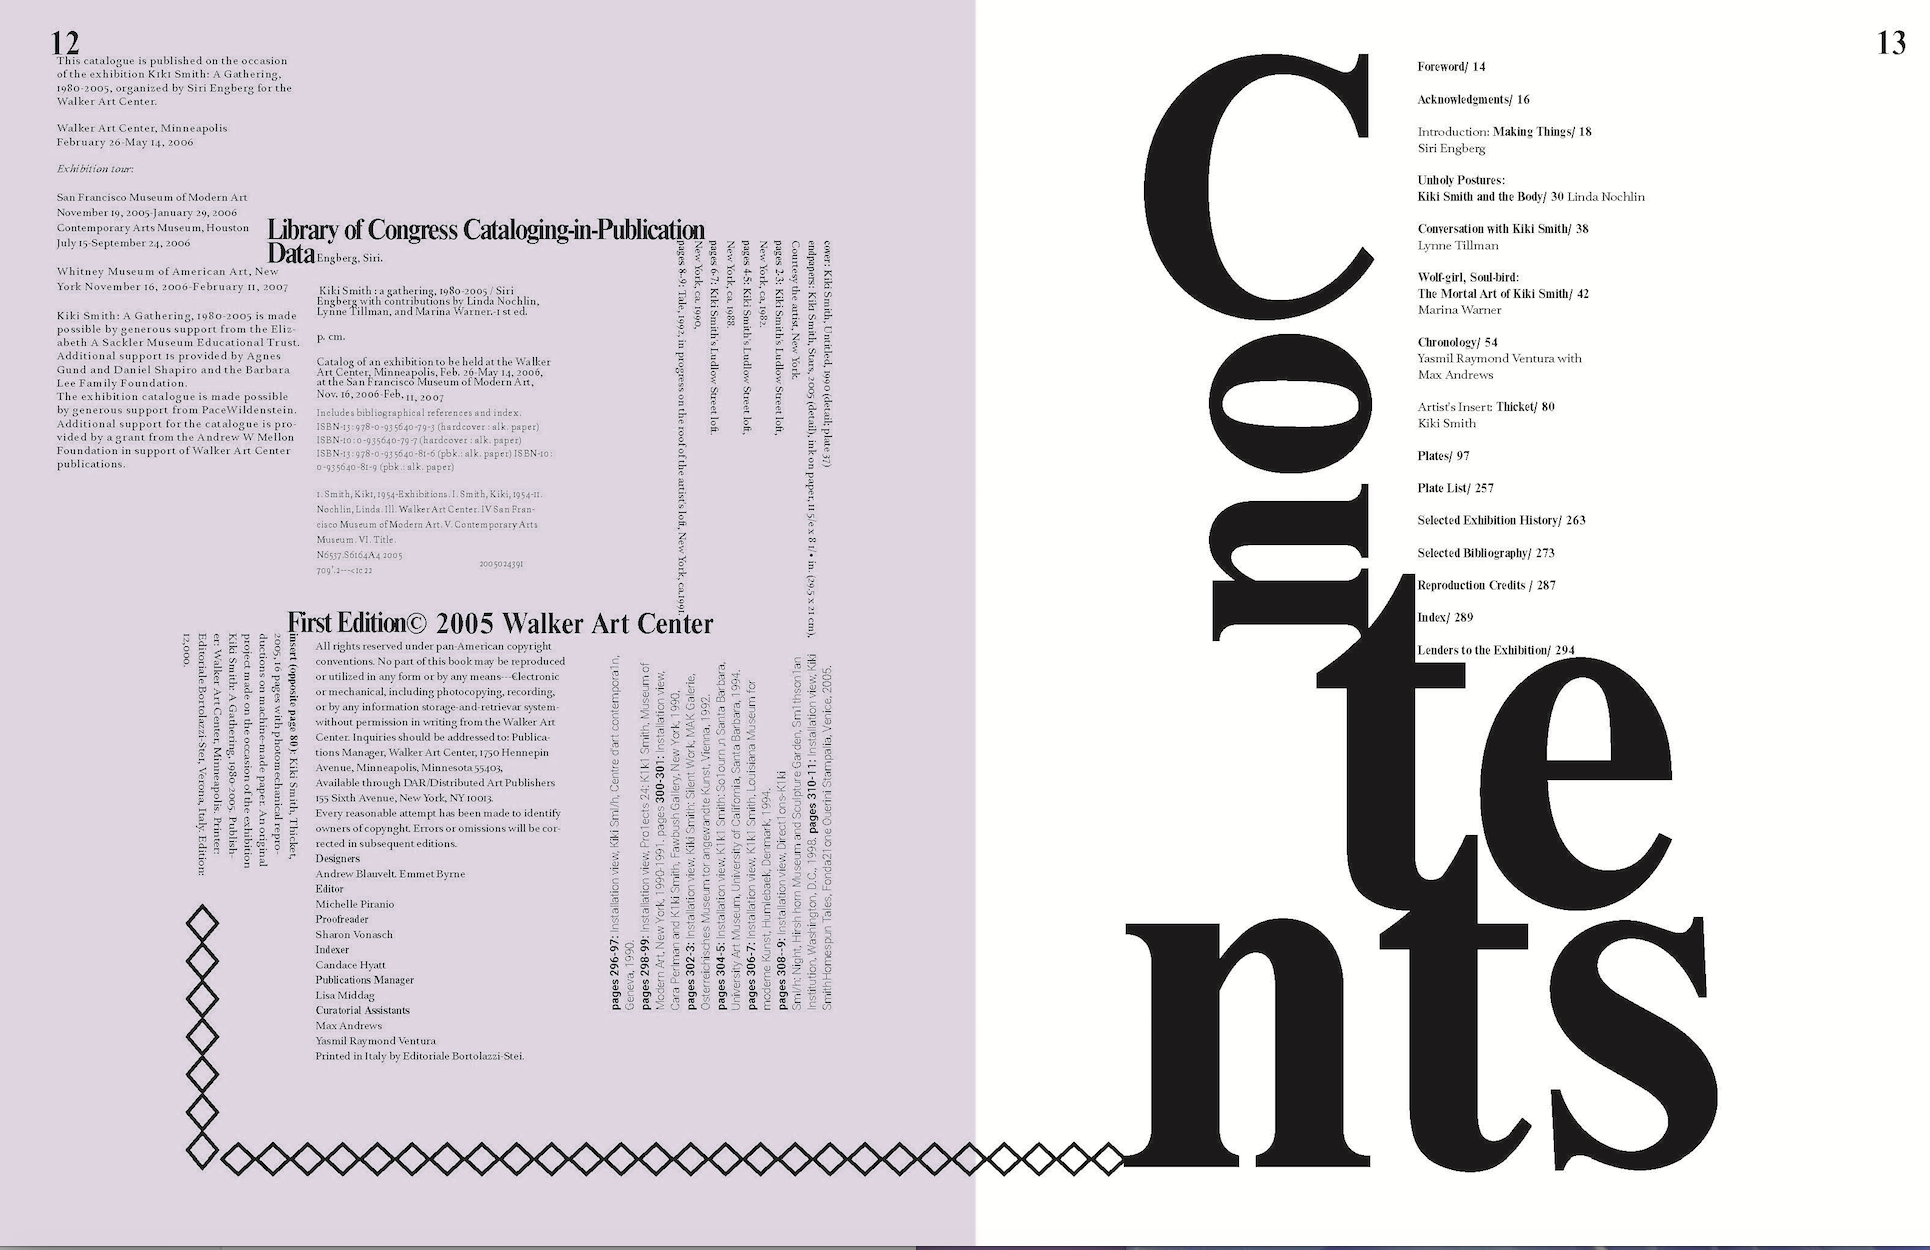
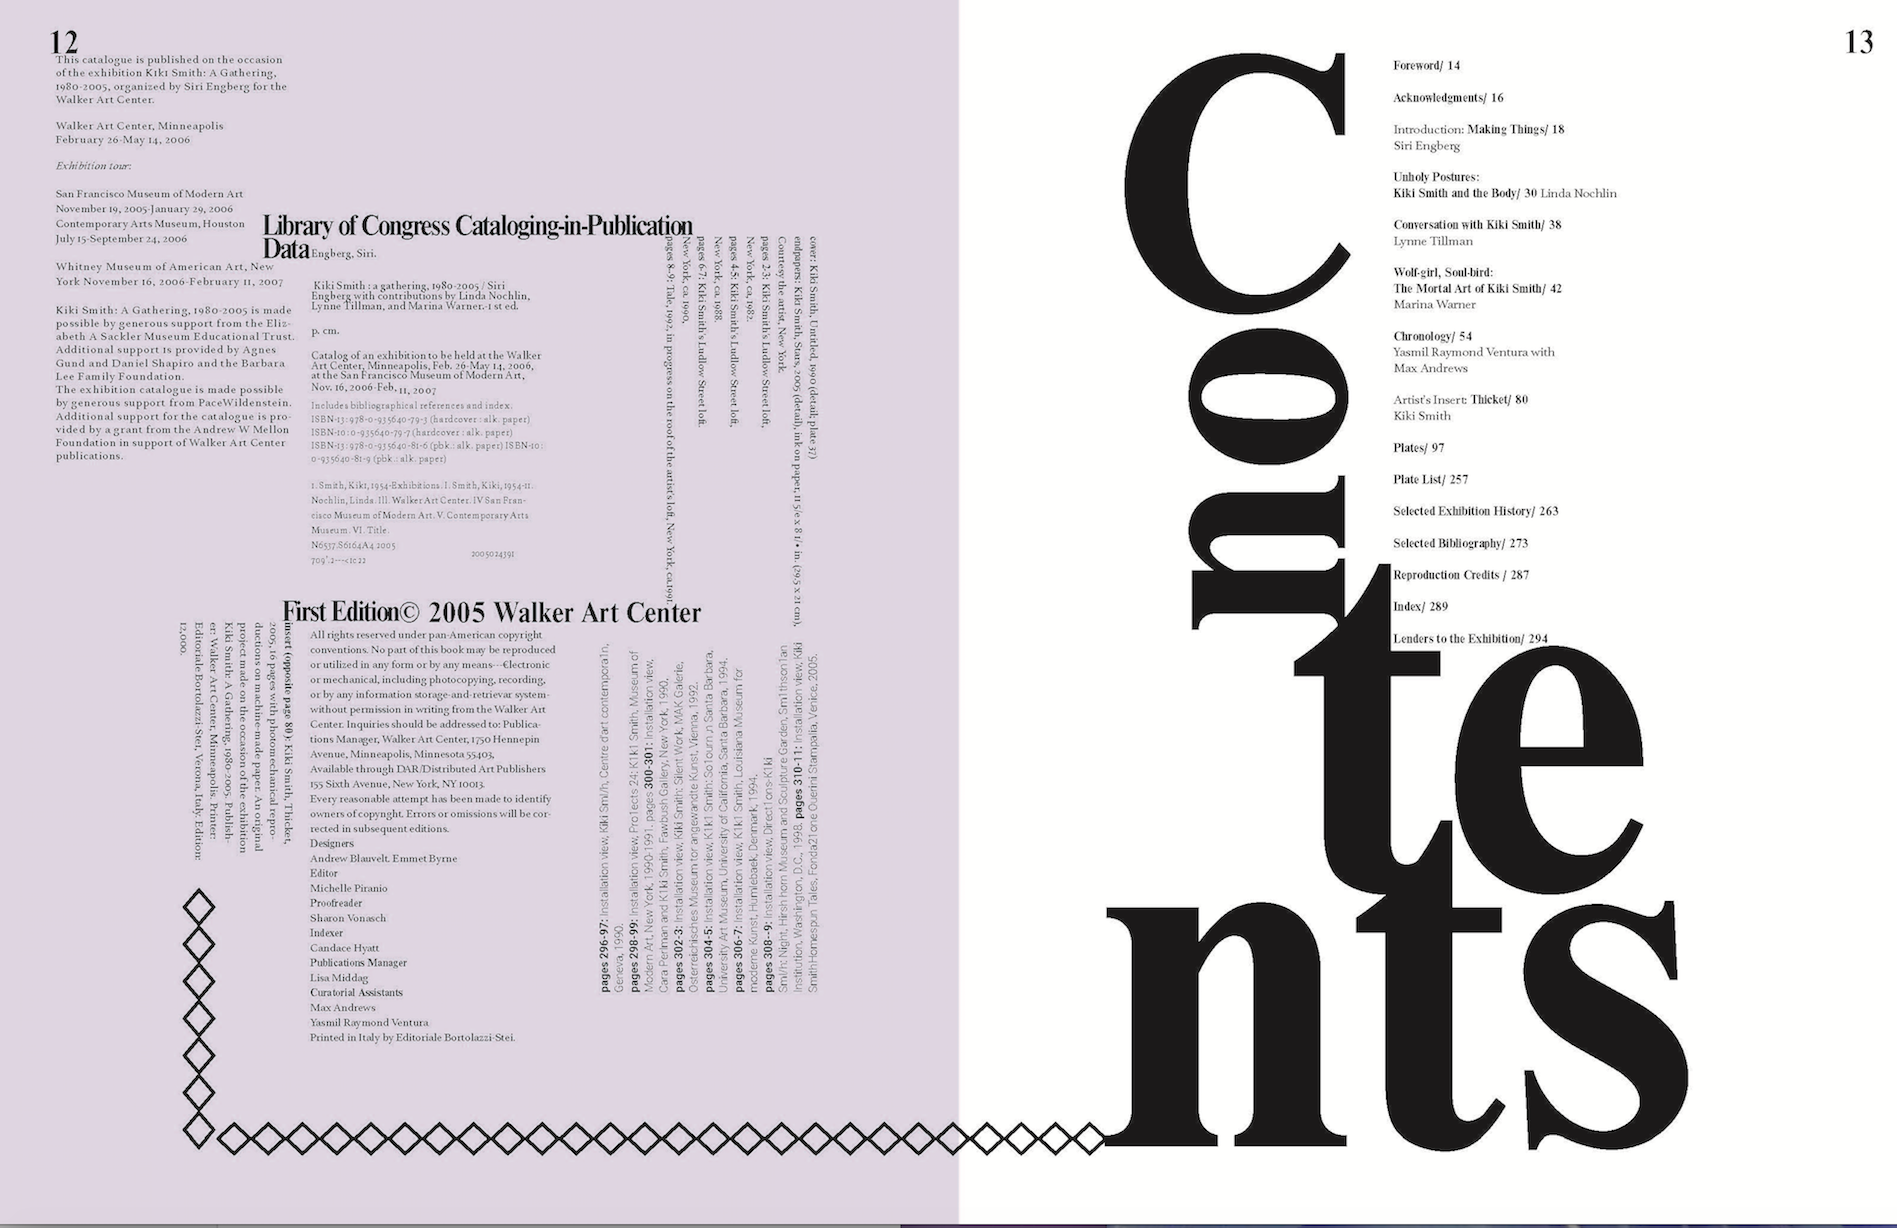
detail page images

Changed region(s): [[0.4665, 0.9902, 1.0, 1.0]]

diff --git a/portfolio cite/detail.html b/portfolio cite/detail.html
@@ -38,7 +38,12 @@
     <p>I decided that I wanted to look at Walker Art Center and for my publication I choose a book based of the Kiki Smith Exhibition A Gathering: 1980-2005</p>
 
   <div class="detail-image">
-    <img src="images/reconsturction%20week%205_Page_3.jpg">
+    <img src="images/intro%20.png">
+    
+    <img src="images/contents.png">
+      
+     <img src="images/reconsturction%20week%205_Page_3.jpg">
+      
     </div>       
     </div>
     </div>
